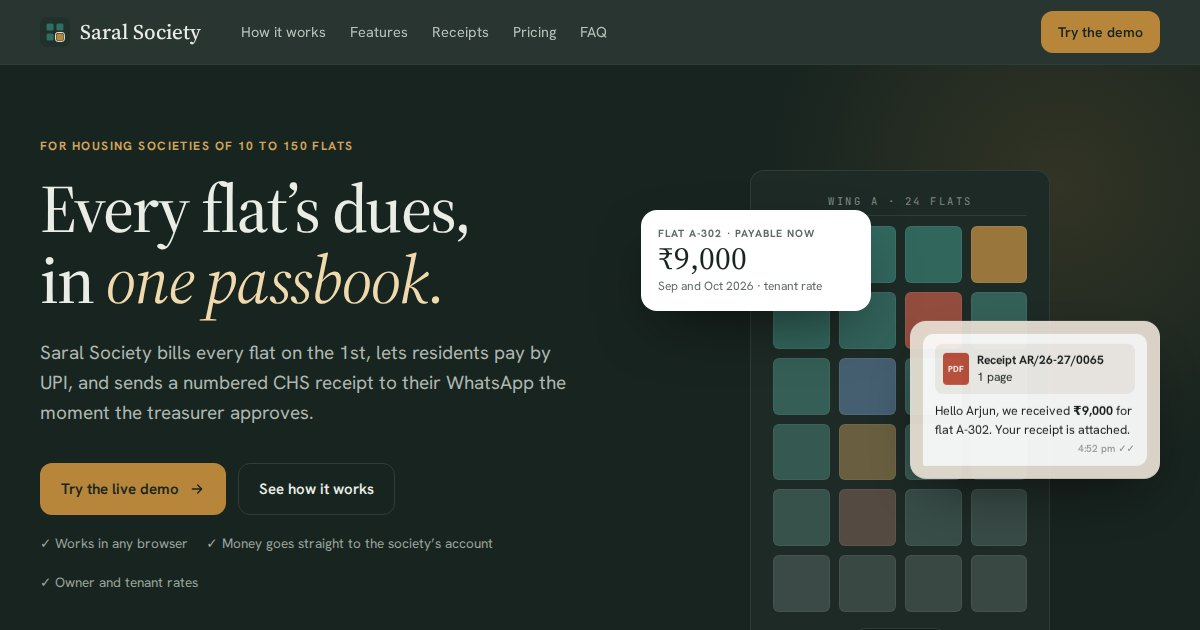
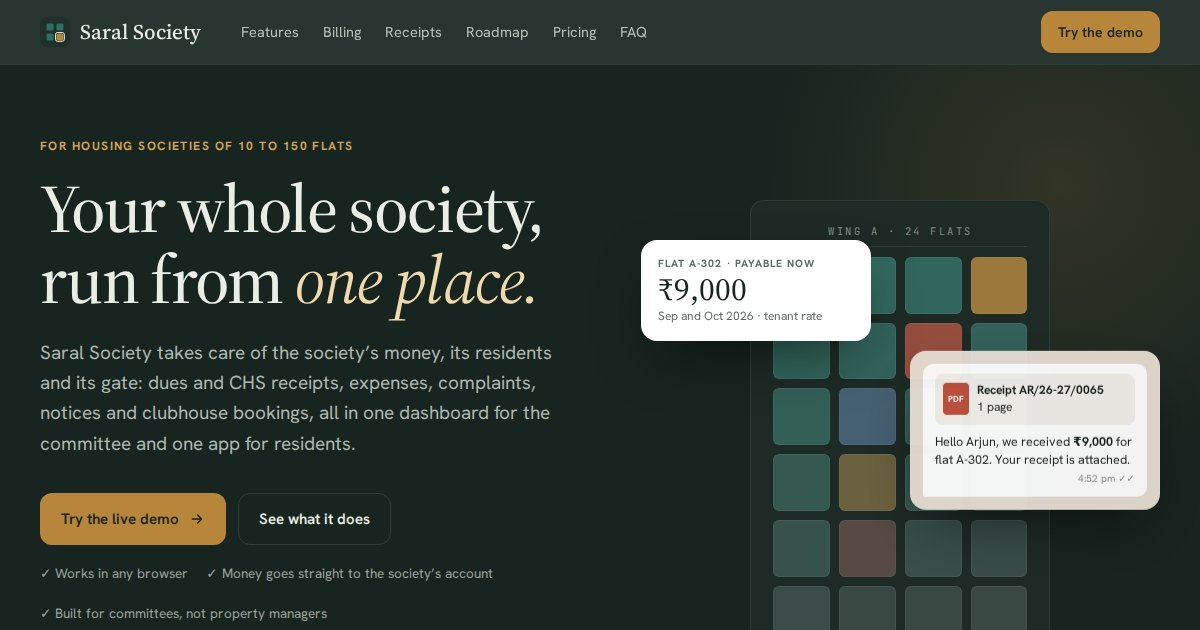
Site: position as the whole-society app, add roadmap
The landing page read as accounting-only: the hero, its cards and all
three "why switch" cards were about dues and receipts. Broaden the hero
and those cards to cover operations, move Features above the billing
walkthrough, add an FAQ on scope, and add an "On the roadmap" section
for smart utility integrations and a redevelopment platform, both
marked Planned. PRD §10 gets the same two items. Preview image remade.

diff --git a/website/index.html b/website/index.html
@@ -5,17 +5,17 @@
 <meta name="viewport" content="width=device-width, initial-scale=1, viewport-fit=cover">
 <title>Saral Society</title>
 <meta name="claude:viewport-fit-sides" content="cover">
-<meta name="description" content="Maintenance billing, UPI collection and CHS-format receipts for housing societies of 10 to 150 flats.">
+<meta name="description" content="Run your housing society from one place: maintenance billing with CHS receipts, expenses, complaints, notices, bookings and the gate, for societies of 10 to 150 flats.">
 <!-- Link previews (WhatsApp, LinkedIn, Slack…). URLs must be absolute: change them if the site moves to its own domain. Images: website/make-previews.mjs -->
 <meta property="og:type" content="website">
 <meta property="og:site_name" content="Saral Society">
-<meta property="og:title" content="Saral Society: every flat’s dues, in one passbook">
-<meta property="og:description" content="Maintenance billing, UPI collection and CHS-format receipts for housing societies of 10 to 150 flats.">
+<meta property="og:title" content="Saral Society: run your whole society from one place">
+<meta property="og:description" content="Billing and CHS receipts, expenses, complaints, notices, bookings and the gate, for housing societies of 10 to 150 flats.">
 <meta property="og:url" content="https://sanketjo96.github.io/housing-society-management/">
 <meta property="og:image" content="https://sanketjo96.github.io/housing-society-management/preview.jpg">
 <meta property="og:image:width" content="1200">
 <meta property="og:image:height" content="630">
-<meta property="og:image:alt" content="The Saral Society landing page: every flat’s dues, in one passbook">
+<meta property="og:image:alt" content="The Saral Society landing page: run your whole society from one place">
 <meta name="twitter:card" content="summary_large_image">
 <link rel="icon" href="favicon.svg" type="image/svg+xml">
 <link rel="preconnect" href="https://fonts.googleapis.com">
@@ -226,6 +226,9 @@ section { padding-block: 96px; }
 @media (max-width: 860px) { .price { grid-template-columns: 1fr; } }
 @media (max-width: 480px) { .price .bands { grid-template-columns: 1fr; } }
 
+/* ---------- Roadmap ---------- */
+.soon { align-self: flex-start; font-size: 12px; font-weight: 700; letter-spacing: .1em; text-transform: uppercase; color: var(--brass); background: var(--brass-soft); padding: 3px 10px; border-radius: 999px; }
+
 /* ---------- FAQ ---------- */
 .faq { max-width: 820px; }
 .faq details { border-top: 1px solid var(--line); padding: 20px 0; }
@@ -255,7 +258,7 @@ footer nav { display: flex; gap: 20px; flex-wrap: wrap; }
       <svg width="30" height="30" viewBox="0 0 32 32" aria-hidden="true"><rect width="32" height="32" rx="8" fill="#22302B"/><rect x="7" y="7" width="7.5" height="7.5" rx="1.6" fill="#2F6E64"/><rect x="17.5" y="7" width="7.5" height="7.5" rx="1.6" fill="#2F6E64"/><rect x="7" y="17.5" width="7.5" height="7.5" rx="1.6" fill="#2F6E64"/><rect x="17.5" y="17.5" width="7.5" height="7.5" rx="1.6" fill="#B8863A"/><rect x="16.5" y="16.5" width="9.5" height="9.5" rx="2.4" fill="none" stroke="#F1F4EE" stroke-width="1"/></svg>
       Saral Society</a>
     <nav class="nav-links" aria-label="Sections">
-      <a href="#how">How it works</a><a href="#features">Features</a><a href="#receipts">Receipts</a><a href="#pricing">Pricing</a><a href="#faq">FAQ</a>
+      <a href="#features">Features</a><a href="#how">Billing</a><a href="#receipts">Receipts</a><a href="#roadmap">Roadmap</a><a href="#pricing">Pricing</a><a href="#faq">FAQ</a>
     </nav>
     <a class="btn gold" href="demo/index.html">Try the demo</a>
   </div>
@@ -267,14 +270,14 @@ footer nav { display: flex; gap: 20px; flex-wrap: wrap; }
     <div class="wrap hero-grid">
       <div class="hero-copy">
         <div class="eyebrow">For housing societies of 10 to 150 flats</div>
-        <h1 style="margin-top: 18px;">Every flat’s dues, in <em>one passbook.</em></h1>
-        <p class="lede">Saral Society bills every flat on the 1st, lets residents pay by UPI, and sends a numbered CHS receipt to their WhatsApp the moment the treasurer approves.</p>
+        <h1 style="margin-top: 18px;">Your whole society, run from <em>one place.</em></h1>
+        <p class="lede">Saral Society takes care of the society’s money, its residents and its gate: dues and CHS receipts, expenses, complaints, notices and clubhouse bookings, all in one dashboard for the committee and one app for residents.</p>
         <div class="hero-ctas">
           <a class="btn gold" href="demo/index.html">Try the live demo
             <svg width="16" height="16" viewBox="0 0 24 24" fill="none" stroke="currentColor" stroke-width="2" stroke-linecap="round" stroke-linejoin="round" aria-hidden="true"><path d="M5 12h14M13 6l6 6-6 6"/></svg></a>
-          <a class="btn line" href="#how">See how it works</a>
+          <a class="btn line" href="#features">See what it does</a>
         </div>
-        <div class="hero-note"><span>✓ Works in any browser</span><span>✓ Money goes straight to the society’s account</span><span>✓ Owner and tenant rates</span></div>
+        <div class="hero-note"><span>✓ Works in any browser</span><span>✓ Money goes straight to the society’s account</span><span>✓ Built for committees, not property managers</span></div>
       </div>
       <div class="stage" aria-hidden="true">
         <div class="building">
@@ -295,7 +298,7 @@ footer nav { display: flex; gap: 20px; flex-wrap: wrap; }
         </div>
         <div class="float ok">
           <span class="tick"><svg width="16" height="16" viewBox="0 0 24 24" fill="none" stroke="#fff" stroke-width="3" stroke-linecap="round" stroke-linejoin="round"><path d="M20 6 9 17l-5-5"/></svg></span>
-          <span><b>Payment approved</b><br><span style="color: #9AA59E; font-size: 12px;">by the Treasurer · just now</span></span>
+          <span><b>Complaint resolved</b><br><span style="color: #9AA59E; font-size: 12px;">Water leak, A-302 · plumber sent</span></span>
         </div>
       </div>
     </div>
@@ -306,28 +309,12 @@ footer nav { display: flex; gap: 20px; flex-wrap: wrap; }
     <div class="wrap">
       <div class="sec-head">
         <div class="eyebrow">Why societies switch</div>
-        <h2>Your treasurer shouldn’t need a spreadsheet, a WhatsApp group and a carbon receipt book.</h2>
+        <h2>Your committee shouldn’t need a spreadsheet, five WhatsApp groups and a carbon receipt book.</h2>
       </div>
       <div class="swap">
-        <article><span class="was">A spreadsheet of who owes what</span><h3>A passbook that balances itself</h3><p>Each flat has one ledger. Charges, payments and credit add up on their own, so dues are never a matter of opinion.</p></article>
-        <article><span class="was">UPI screenshots lost in a group chat</span><h3>One queue to review payments</h3><p>Residents upload the screenshot against their flat. The treasurer sees the amount and reference beside it, and approves or rejects with a reason.</p></article>
-        <article><span class="was">Receipts written by hand, or not at all</span><h3>Numbered receipts, sent instantly</h3><p>Every approval issues the next receipt number in the standard co-operative society format, signed and on the resident’s WhatsApp within seconds.</p></article>
-      </div>
-    </div>
-  </section>
-
-  <!-- How it works -->
-  <section id="how" style="padding-top: 24px;">
-    <div class="wrap">
-      <div class="sec-head">
-        <div class="eyebrow">How it works</div>
-        <h2>One month of maintenance, start to finish.</h2>
-      </div>
-      <div class="steps">
-        <div class="step"><span class="n">1 · On the 1st</span><h3>Charges go out</h3><p>Every flat gets its monthly charge, at the owner or tenant rate depending on who lived there. Bills reach residents on WhatsApp and email.</p><span class="who">Automatic</span></div>
-        <div class="step"><span class="n">2 · Any day</span><h3>Residents pay by UPI</h3><p>They pay straight to the society’s UPI or bank account and upload the screenshot. Paying extra is fine; it’s kept as credit.</p><span class="who">Owner or tenant</span></div>
-        <div class="step"><span class="n">3 · Same day</span><h3>Treasurer approves</h3><p>One queue, proof beside each payment. Approving shows the receipt first, so nothing goes out wrong.</p><span class="who">Committee</span></div>
-        <div class="step"><span class="n">4 · Seconds later</span><h3>Receipt arrives</h3><p>A numbered, signed PDF receipt lands on WhatsApp and email, and the flat’s passbook updates for owner and tenant alike.</p><span class="who">Automatic</span></div>
+        <article><span class="was">A spreadsheet of who owes what, and a carbon receipt book</span><h3>Dues and receipts that keep themselves</h3><p>Each flat has one passbook. Residents pay by UPI, the treasurer approves from one queue, and a numbered CHS receipt reaches their WhatsApp in seconds.</p></article>
+        <article><span class="was">Complaints and notices lost in the group chat</span><h3>Every request tracked to done</h3><p>Residents raise complaints and book the clubhouse in the app. The committee assigns, updates and publishes notices, and everyone sees where things stand.</p></article>
+        <article><span class="was">Expenses on paper slips and in someone’s memory</span><h3>A clear picture at audit time</h3><p>Record what the society spends next to what it collects, with an income and expenditure view the committee can show at the AGM.</p></article>
       </div>
     </div>
   </section>
@@ -375,6 +362,22 @@ footer nav { display: flex; gap: 20px; flex-wrap: wrap; }
             <li>Visitor log<span>Who came, for which flat, in and out times</span></li>
           </ul>
         </article>
+      </div>
+    </div>
+  </section>
+
+  <!-- How it works -->
+  <section id="how" style="padding-top: 24px;">
+    <div class="wrap">
+      <div class="sec-head">
+        <div class="eyebrow">Billing, end to end</div>
+        <h2>One month of maintenance, start to finish.</h2>
+      </div>
+      <div class="steps">
+        <div class="step"><span class="n">1 · On the 1st</span><h3>Charges go out</h3><p>Every flat gets its monthly charge, at the owner or tenant rate depending on who lived there. Bills reach residents on WhatsApp and email.</p><span class="who">Automatic</span></div>
+        <div class="step"><span class="n">2 · Any day</span><h3>Residents pay by UPI</h3><p>They pay straight to the society’s UPI or bank account and upload the screenshot. Paying extra is fine; it’s kept as credit.</p><span class="who">Owner or tenant</span></div>
+        <div class="step"><span class="n">3 · Same day</span><h3>Treasurer approves</h3><p>One queue, proof beside each payment. Approving shows the receipt first, so nothing goes out wrong.</p><span class="who">Committee</span></div>
+        <div class="step"><span class="n">4 · Seconds later</span><h3>Receipt arrives</h3><p>A numbered, signed PDF receipt lands on WhatsApp and email, and the flat’s passbook updates for owner and tenant alike.</p><span class="who">Automatic</span></div>
       </div>
     </div>
   </section>
@@ -428,7 +431,7 @@ footer nav { display: flex; gap: 20px; flex-wrap: wrap; }
     <div class="wrap">
       <div class="sec-head">
         <div class="eyebrow">Your data</div>
-        <h2>The society’s money records stay private and on the record.</h2>
+        <h2>The society’s records stay private, and every rupee stays on the record.</h2>
       </div>
       <div class="trust">
         <div><b>Money never passes through us</b><span>Residents pay directly to the society’s UPI or bank account. Saral records and verifies.</span></div>
@@ -437,6 +440,29 @@ footer nav { display: flex; gap: 20px; flex-wrap: wrap; }
         <div><b>Every rupee has a trail</b><span>Approvals, rejections and manual entries are logged with who did it and when.</span></div>
         <div><b>Weekly backups</b><span>The database is backed up every week to separate storage.</span></div>
         <div><b>Accounts by invitation</b><span>No public sign-up. The committee adds residents; login attempts are rate-limited.</span></div>
+      </div>
+    </div>
+  </section>
+
+  <!-- Roadmap -->
+  <section id="roadmap" style="padding-top: 24px;">
+    <div class="wrap">
+      <div class="sec-head">
+        <div class="eyebrow">On the roadmap</div>
+        <h2>Where Saral Society is going next.</h2>
+        <p class="lede">Once the day-to-day runs smoothly, the bigger jobs are the building itself and the decisions that shape its future. These are planned, not yet available.</p>
+      </div>
+      <div class="price">
+        <article>
+          <span class="soon">Planned</span>
+          <h3>Smart utility integrations</h3>
+          <p style="color: var(--muted);">Connect the society’s water meters, electricity sub-meters and common equipment, so usage is read automatically, billed to each flat’s passbook, and the committee hears about a leak or a failing pump before residents do.</p>
+        </article>
+        <article>
+          <span class="soon">Planned</span>
+          <h3>Redevelopment platform</h3>
+          <p style="color: var(--muted);">Take the society through redevelopment in one place: member meetings and digital voting, developer offers compared side by side, the documents in one vault, and progress every member can follow.</p>
+        </article>
       </div>
     </div>
   </section>
@@ -475,6 +501,7 @@ footer nav { display: flex; gap: 20px; flex-wrap: wrap; }
     <div class="wrap">
       <div class="sec-head"><div class="eyebrow">Questions</div><h2>Asked by committees before they start.</h2></div>
       <div class="faq">
+        <details><summary>Is Saral Society only for accounting?</summary><p>No. Billing and receipts are where most committees start, but the same app handles expenses, complaints, notices and clubhouse bookings, with gate passes and visitor management on the way. Utility integrations and redevelopment are on the roadmap.</p></details>
         <details><summary>Do residents have to install an app?</summary><p>No. Everything works in the phone’s browser today. Android apps for residents and guards are on the way and use the same account.</p></details>
         <details><summary>Does the money go through Saral Society?</summary><p>No. Residents pay directly into the society’s own UPI ID or bank account. Saral keeps the record, checks the proof with the treasurer, and issues the receipt.</p></details>
         <details><summary>How are owner and tenant rates handled?</summary><p>Set a base rate and a tenant multiplier once. Each month the flat is charged by who lived there. Owner and tenant see the same passbook for the flat.</p></details>
@@ -501,7 +528,7 @@ footer nav { display: flex; gap: 20px; flex-wrap: wrap; }
 <footer>
   <div class="wrap">
     <span>© 2026 Saral Society · Designed and built by Sanket Joshi, Pune</span>
-    <nav aria-label="Footer"><a href="#how">How it works</a><a href="#features">Features</a><a href="#pricing">Pricing</a><a href="demo/index.html">Demo</a></nav>
+    <nav aria-label="Footer"><a href="#features">Features</a><a href="#how">Billing</a><a href="#roadmap">Roadmap</a><a href="#pricing">Pricing</a><a href="demo/index.html">Demo</a></nav>
   </div>
 </footer>
 

diff --git a/docs/product/prd.md b/docs/product/prd.md
@@ -422,7 +422,12 @@ Explicitly out of the four phases above:
 - CHS audit-ready export pack: member register, receipt register,
   income and expenditure, receipts and payments, balance sheet, defaulters
   list in the formats auditors expect under the MCS Act.
-- Polls and §79A-compliant digital voting for redevelopment decisions.
+- Smart utility integrations: water meters, electricity sub-meters and
+  common equipment (pumps, lifts, DG set) read automatically, usage billed
+  to each flat's passbook, and alerts to the committee on leaks or faults.
+- Redevelopment platform: member meetings, polls and §79A-compliant digital
+  voting, developer offers compared side by side, a redevelopment document
+  vault, and progress tracking visible to every member.
 - Document vault (bye-laws, minutes, NOCs).
 - Rewards for on-time payment.
 - Vendor marketplace and vendor logins.
